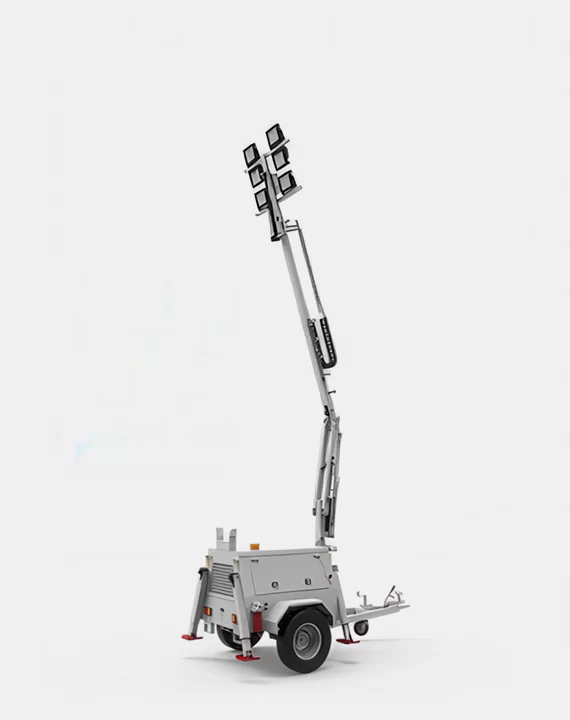
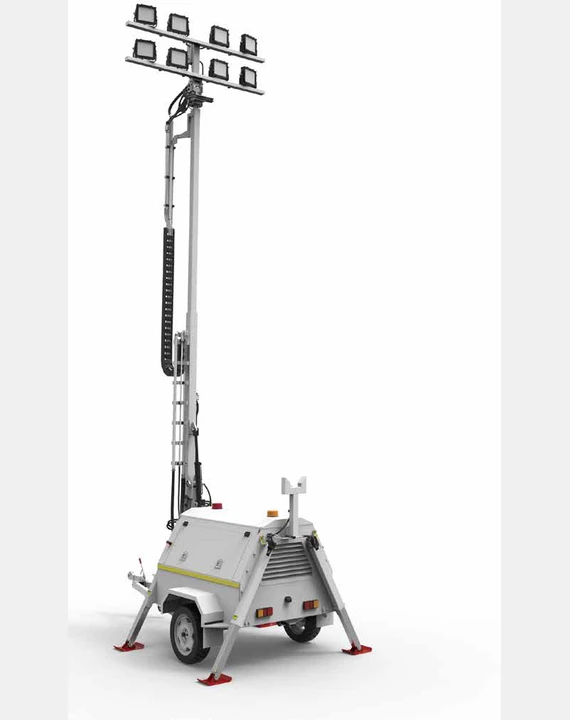
Replace Single Axle card with MLT2560 from spec sheet, match other card format

Changed region(s): [[0.1789, 0.0, 0.7158, 0.9778], [0.1193, 0.6111, 0.1491, 0.6417]]

diff --git a/app/page.tsx b/app/page.tsx
@@ -2,7 +2,7 @@ import Image from "next/image"
 import Link from "next/link"
 
 const products = [
-  { name: "Single Axle", href: "/lighting-towers/single-axle", image: "/product-single-axle.png", desc: "Compact, towable. Fast deployment for smaller sites." },
+  { name: "Single Axle", href: "/lighting-towers/single-axle", image: "/product-single-axle.webp", desc: "Compact, towable. Fast deployment for smaller sites." },
   { name: "Dual Axle", href: "/lighting-towers/dual-axle", image: "/product-dual-axle.webp", desc: "Heavy-duty stability. Maximum coverage." },
   { name: "Sled Mount", href: "/lighting-towers/sled-mount", image: "/product-sled-mount.webp", desc: "Skid-mounted. Crane and forklift deployable." },
   { name: "Long Range", href: "/lighting-towers/long-range", image: "/product-long-range.webp", desc: "Extended mast. Long-throw optics." },